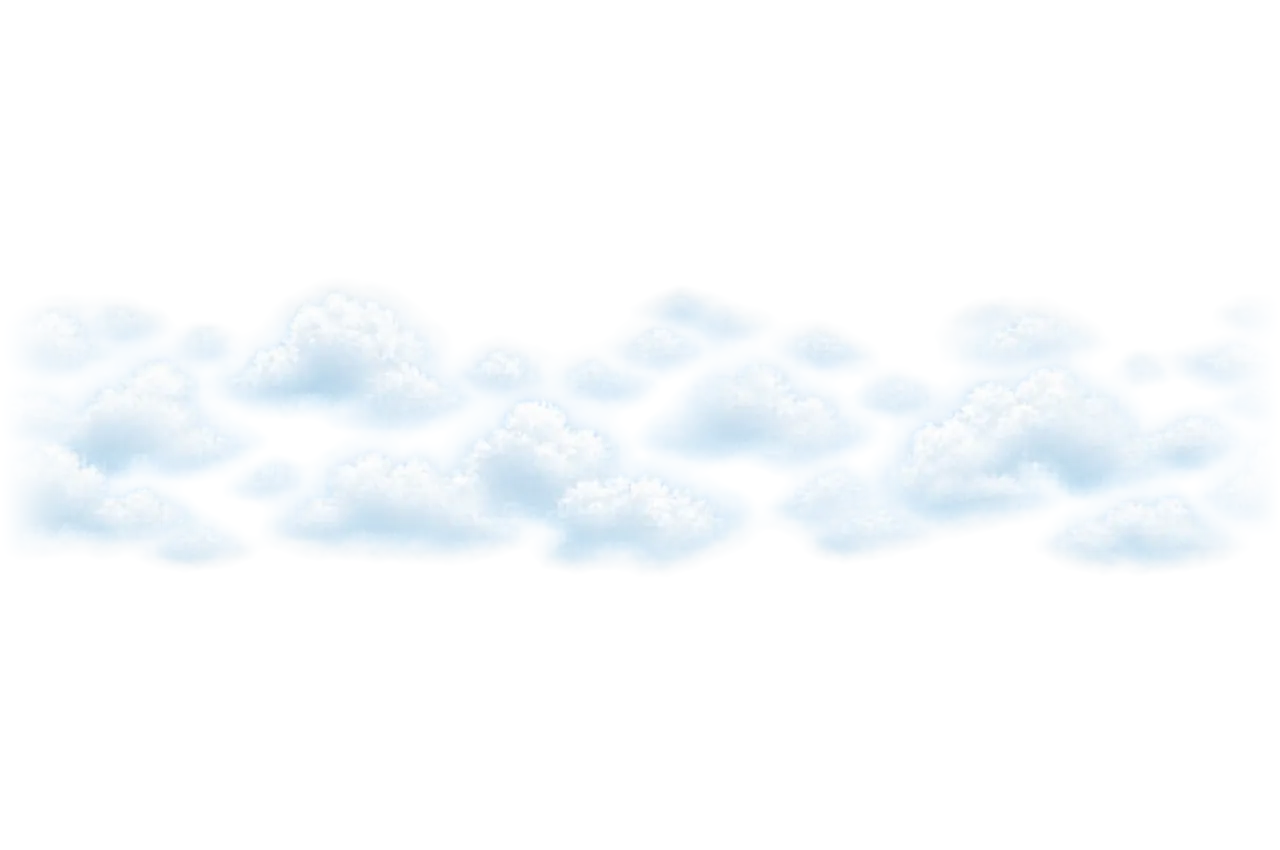
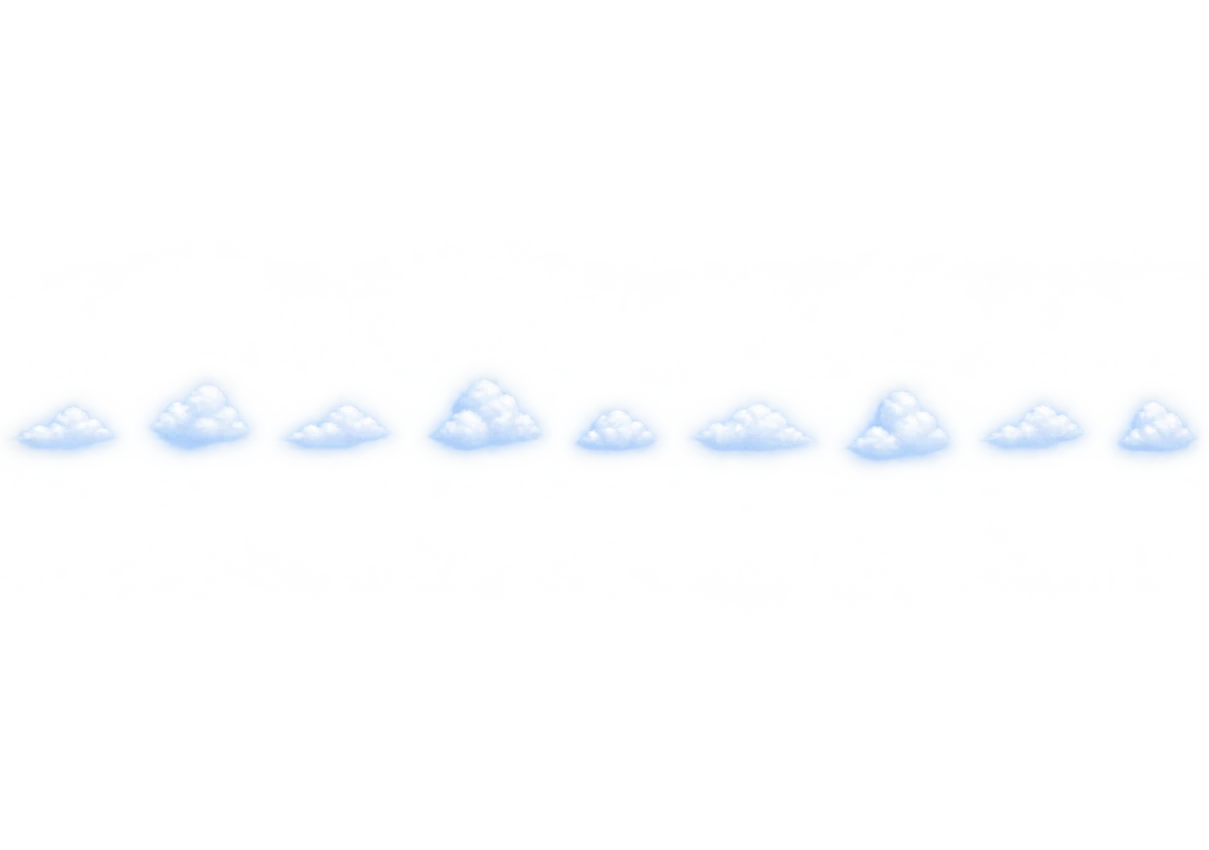
[Art] Redrawn cloud layers and new aurora layers
Cloud far/mid/near: transparent strips that tile without seams. aurora_main / aurora_accent: additive-blend light layers on black. Asset keys auroraA / auroraB registered; the layers are drawn in a later commit.

diff --git a/js/core.js b/js/core.js
@@ -114,7 +114,7 @@ export function applyI18n() {
 /* ---------- images ---------- */
 export const IMG = {}, MASK = {};
 const load = (k, src) => new Promise(res => { const i = new Image(); i.onload = () => { IMG[k] = i; res(); }; i.onerror = () => { window.__tmAsset?.(src); res(); }; i.src = src; });
-const ASSETS = { logo: 'logo', bg: 'bg', bg1: 'bg_sunset', bg2: 'bg_night', tile: 'tile', cloudFar: 'cloud_far', cloudMid: 'cloud_mid', cloudNear: 'cloud_near',
+const ASSETS = { logo: 'logo', bg: 'bg', bg1: 'bg_sunset', bg2: 'bg_night', tile: 'tile', cloudFar: 'cloud_far', cloudMid: 'cloud_mid', cloudNear: 'cloud_near', auroraA: 'aurora_main', auroraB: 'aurora_accent',
   caustic: 'water_caustic', flow: 'water_flow', bubble: 'bubble', body: 'windmill_body', sails: 'windmill_sails', item1: 'item1', item2: 'item2', item3: 'item3' };
 export const loading = Object.entries(ASSETS).map(([k, f]) => load(k, `assets/${f}.webp`));
 for (let lv = 1; lv <= 17; lv++) loading.push(load('b' + lv, artSrc(lv)));
